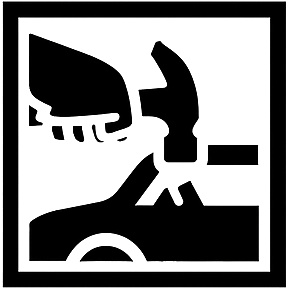
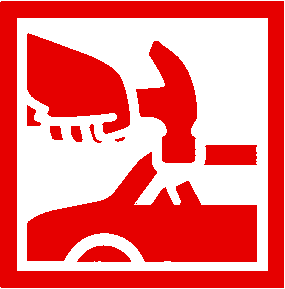
iconcolors

diff --git a/style.css b/style.css
@@ -444,5 +444,5 @@ body {
 
 
 .type {
-    color: #e60000 !important;
+    color: black!important;
 }
